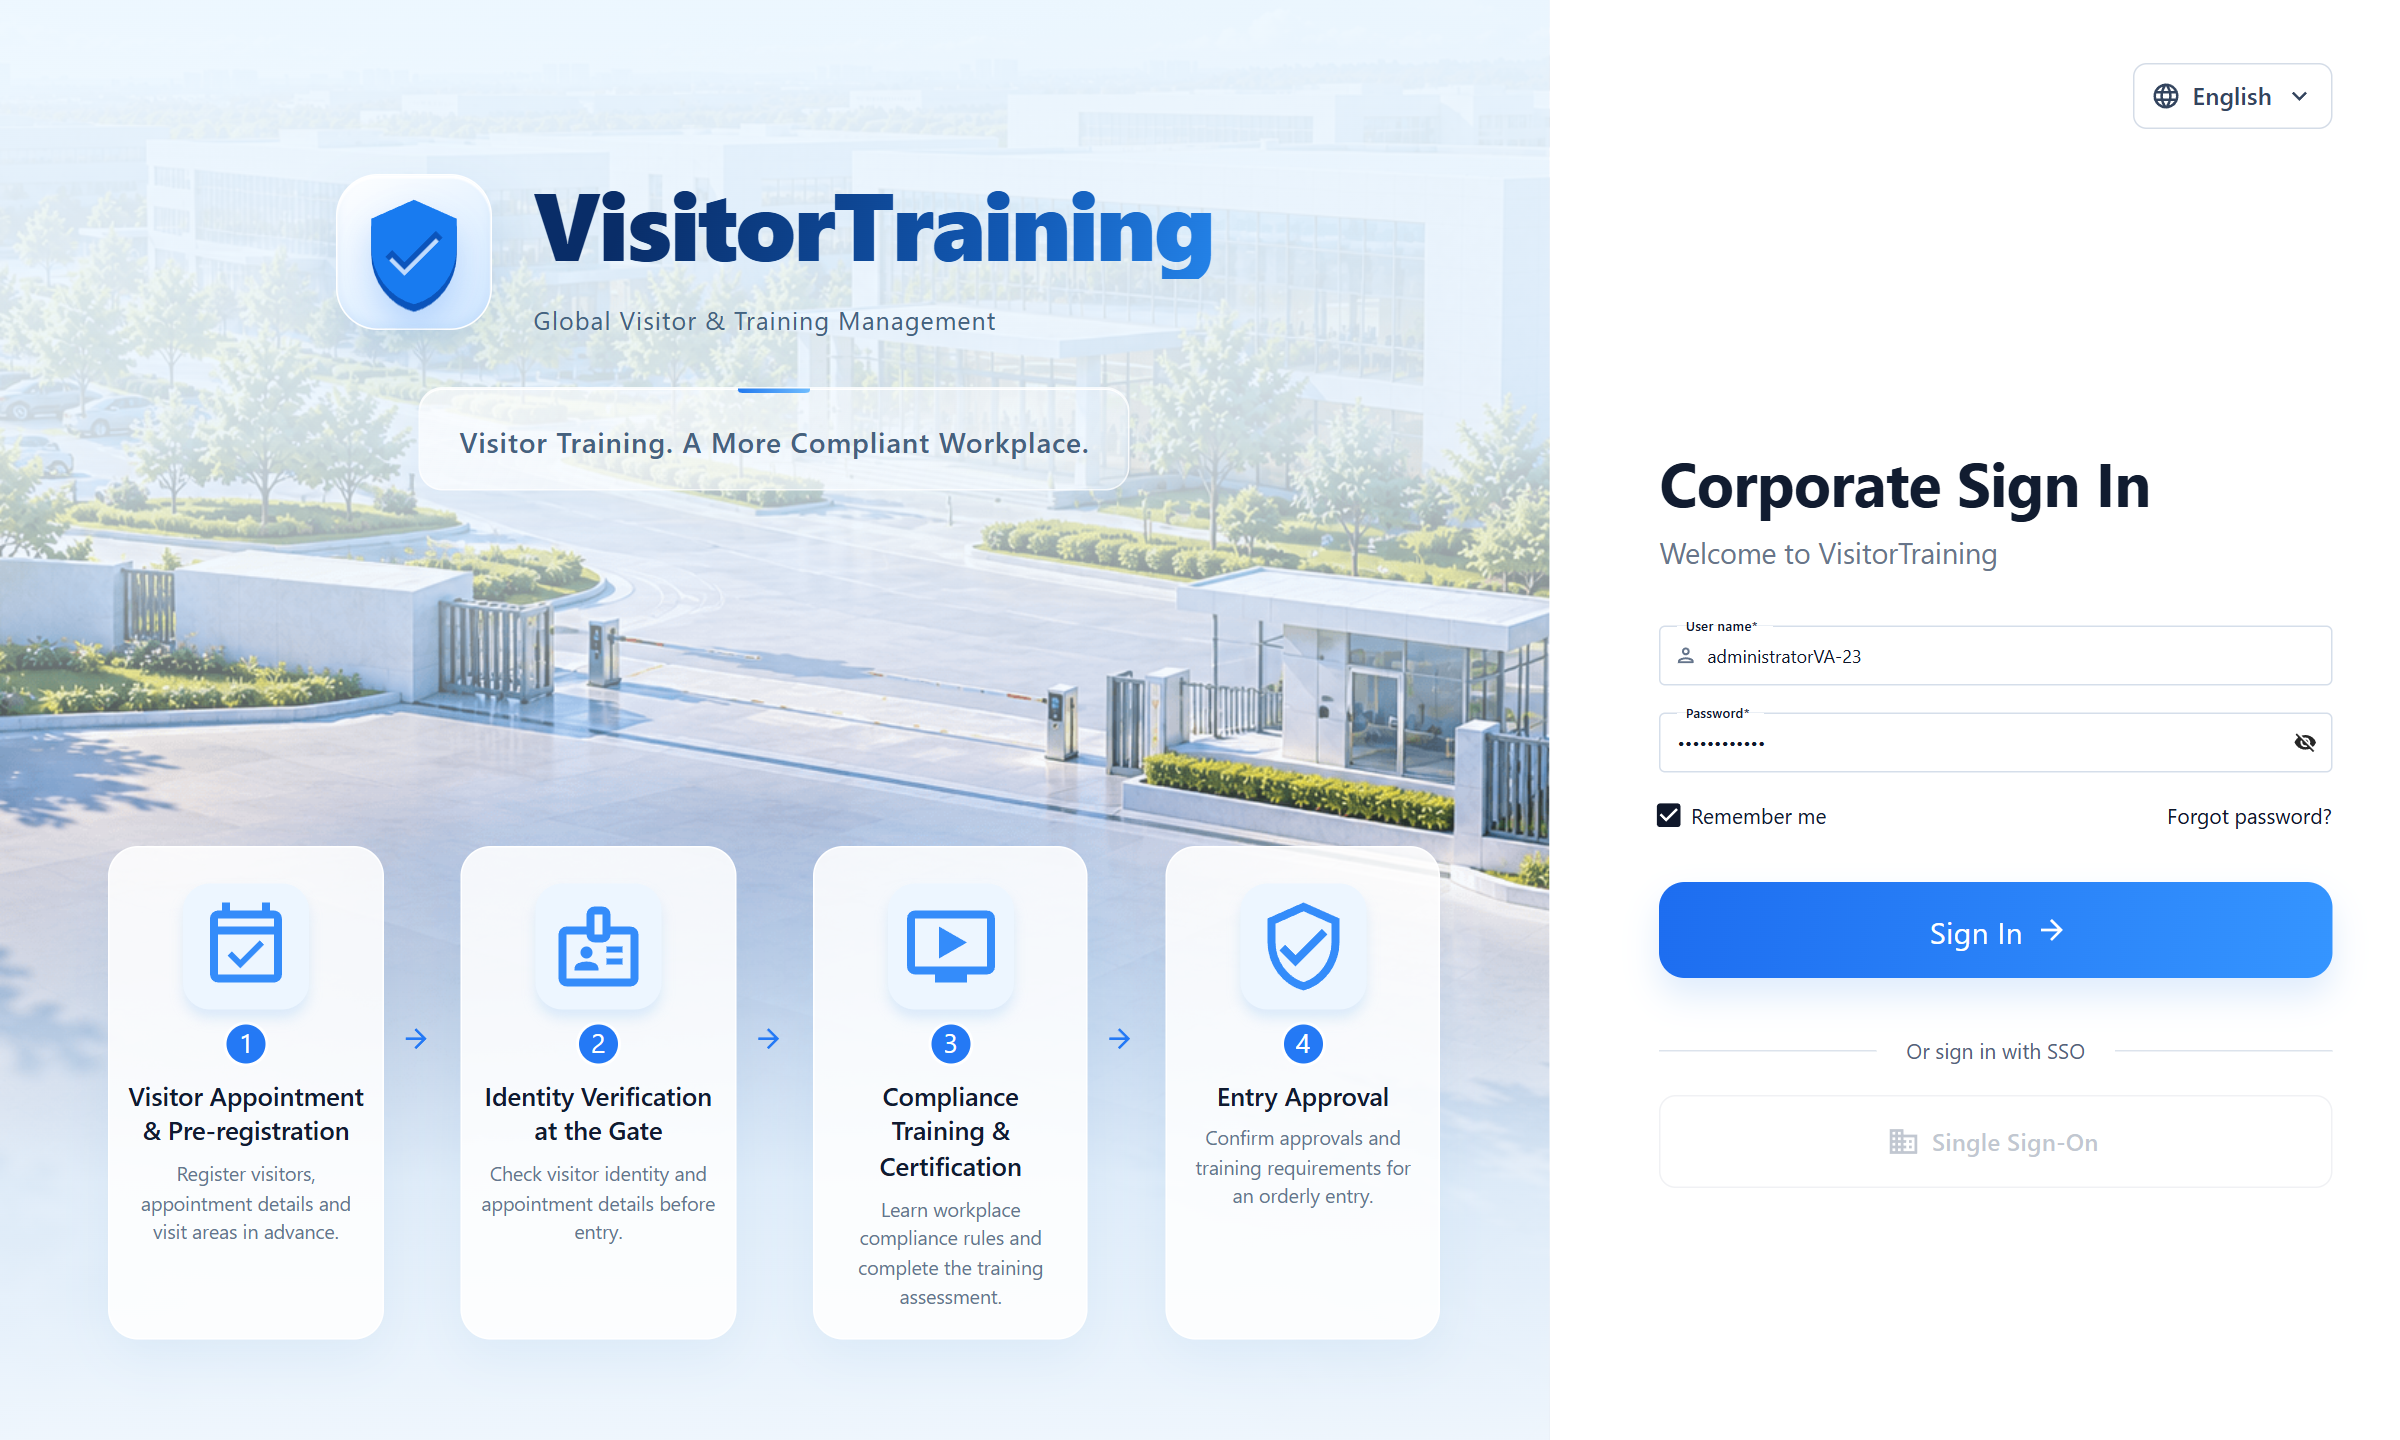
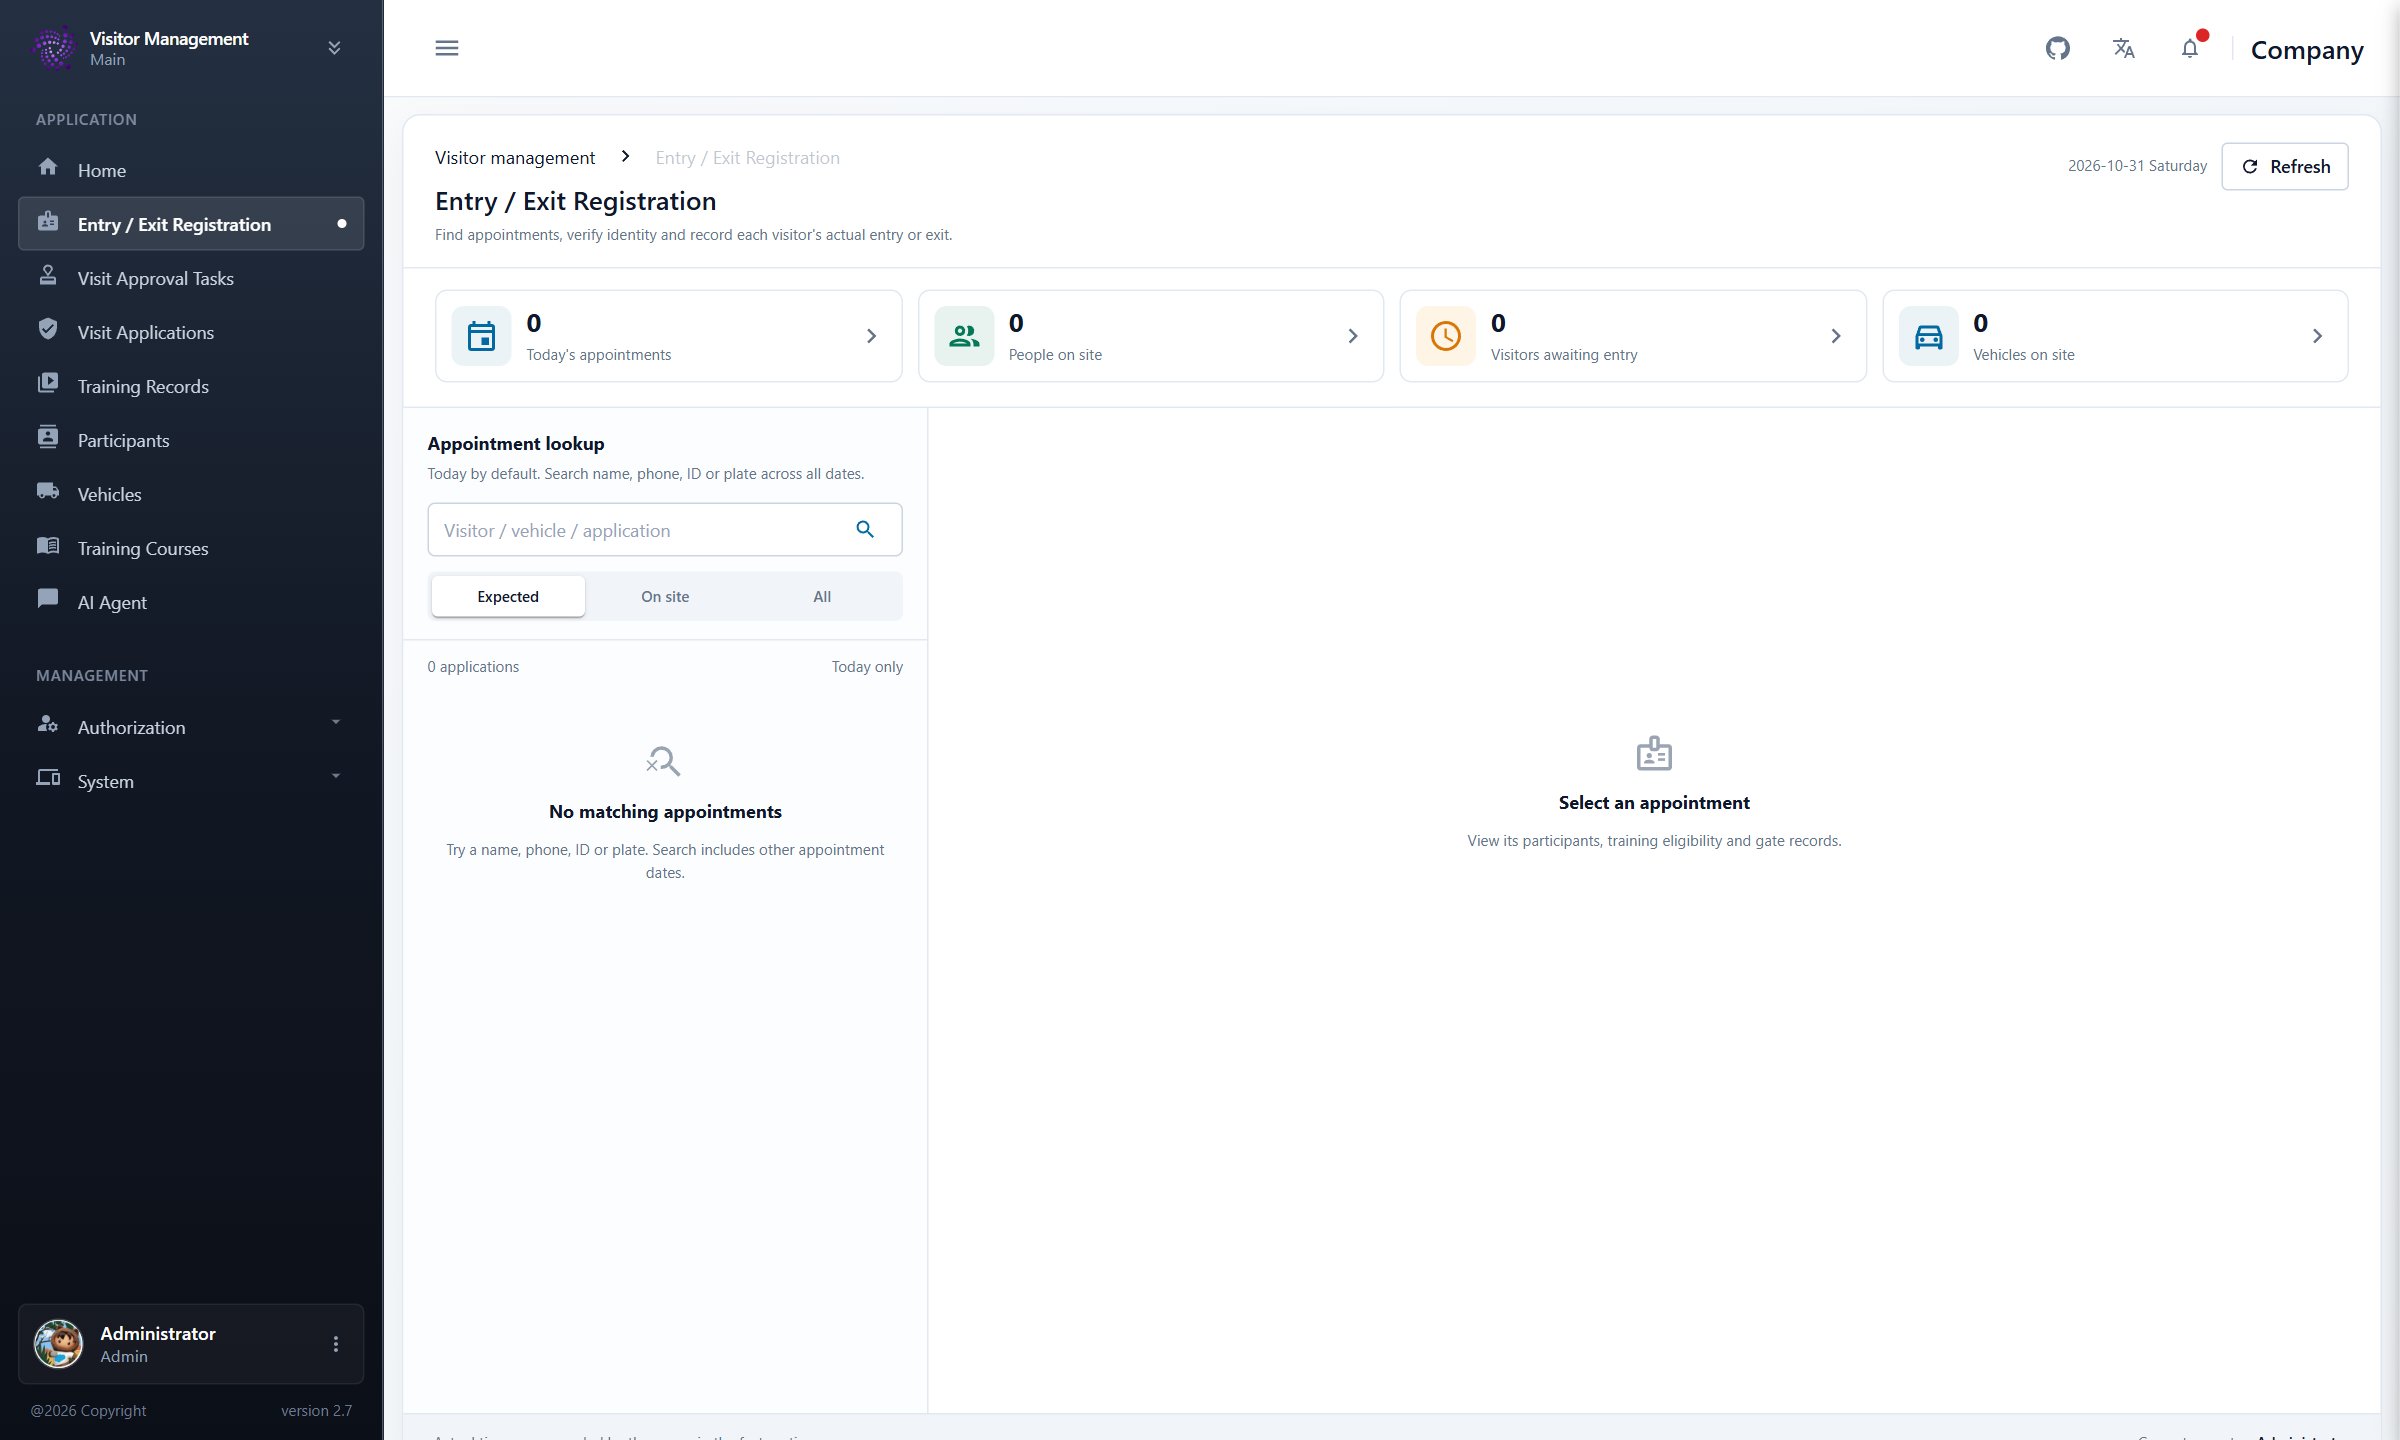
Remove unnecessary post-eyebrow sections from project and service layouts for cleaner presentation

diff --git a/themes/hugobricks/layouts/partials/brick_project.html b/themes/hugobricks/layouts/partials/brick_project.html
@@ -1,8 +1,6 @@
 <section class="post">
     <div class="container title">
-        <div class="post-eyebrow">
-            <a href="{{ relLangURL `projects/` }}" class="post-backlink">← {{ if eq page.Language.Lang "cn" }}开源项目{{ else }}Open Source Projects{{ end }}</a>
-        </div>
+      
         <h1>{{ page.Title | safeHTML }}</h1>
         {{ if or page.Params.date (index page.Params.tags 0) }}
         <div class="meta">

diff --git a/themes/hugobricks/layouts/partials/brick_service.html b/themes/hugobricks/layouts/partials/brick_service.html
@@ -1,8 +1,6 @@
 <section class="post">
     <div class="container title">
-        <div class="post-eyebrow">
-            <a href="{{ relLangURL `showcases/` }}" class="post-backlink">← {{ if eq page.Language.Lang "cn" }}交付案例{{ else }}Project Showcases{{ end }}</a>
-        </div>
+     
         <h1>{{ page.Title | safeHTML }}</h1>
         {{ if or page.Params.date (index page.Params.tags 0) }}
         <div class="meta">
